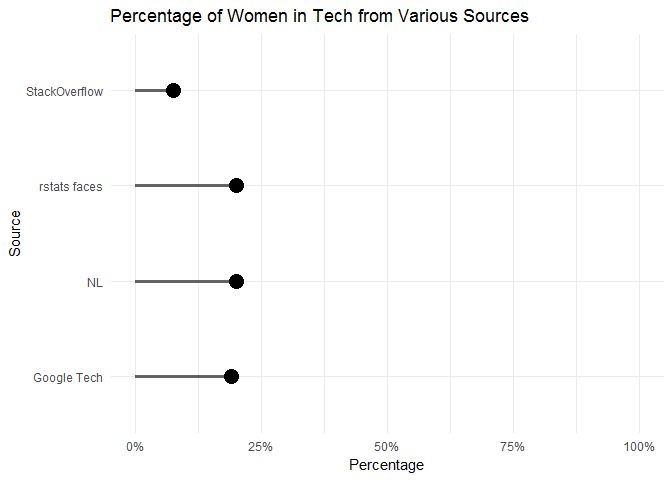
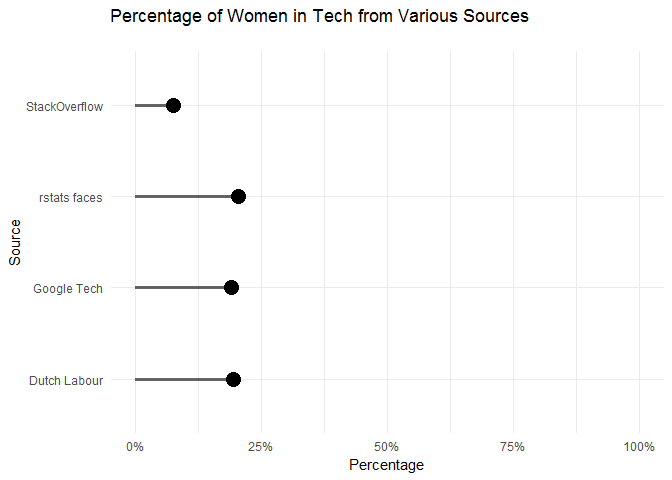
completed blogpost

diff --git a/rstats_faces.html b/rstats_faces.html
@@ -122,8 +122,9 @@ $(document).ready(function () {
 </div>
 
 
-<p>The representation of women in technology is gaining more and more focus. In the R community this has lead to the foundation of R Ladies, the awarding of a grant by the R Foundation to them and the offering of a scholarship by the useR conference (the latter two are also about inclusion of other minorities). This is a good thing but it does make me wonder: how do we measure success? how will we know these actions have lead to a better situation? And by how much?</p>
-<p>This blogpost by Maelle Salmon and this one by Colin Fay inspired me to explore this issue as follows: if we could somehow measure the representation of women currently in our community we can keep track of this. As Mango are organisers of the EARL conference it would also help us assess our own performance.</p>
+<p>The representation of women in technology is gaining more and more attention. In the R community, R-Ladies has grown massively over the past year and been awarded funding by the R-Consortium. The useR! conference has offered diversity scholarships (for underrepesented minorities in general) for the conferences in 2016 and 2017. This is a good thing but it does make me wonder: how do we measure success? how will we know these actions have lead to a better situation? And by how much?</p>
+<p><a href="http://www.masalmon.eu/2017/03/19/facesofr/">This</a> blogpost by Maelle Salmon and <a href="http://colinfay.me/playing-with-rstats-and-microsoft-computer-vision-api/">this</a> one by Colin Fay inspired me to explore this issue as follows: if we could somehow measure the representation of women currently in our community we can keep track of this. As Mango are organisers of the EARL conference it would also help us assess our own performance.</p>
+<p>Before I jump to the code I should mention that this is a simplified approach to the problem. The issue of equal representation is much more complex and the subject of a separate branch of research. This blogpost is an attempt to approach the problem of data collection and measuring progress from a different angle.</p>
 <p>So I set out to measure the proportion of women among the faces of #rstats. I used Colin’s code to first retrieve the profile pictures.</p>
 <pre class="r"><code># Taken from http://colinfay.me/playing-with-rstats-and-microsoft-computer-vision-api/
 library(dplyr)
@@ -160,13 +161,14 @@ getGender &lt;- function(myURLs){
 usersWithGender &lt;- users %&gt;% 
   mutate(gender= getGender(profile_image_url)) %&gt;% 
   select(user_id, gender)</code></pre>
-<p>From Maelle’s great collage we already knew not all profile pictures are of people and the Face API does not return any predictions in these cases. There are also some instances the Face API wrongfully didnt detect a face (not even one of our EARL keynote speaker, sorry Hillary Parker). Altogether the Face API detected 314 faces and the proportion of women among the #rstat faces is 20.4% (click <a href="https://s-media-cache-ak0.pinimg.com/736x/57/6d/fe/576dfe57df89ef97cd31fd7601651bc2.jpg">here</a> for the pie chart). This is only an estimate and it might not even be a very accurate one but we can compare it with other estimates:</p>
[1 lines of base64/hex data omitted]
-<p>Although the percentage of women in technology at Google and in the Netherlands are based on an entirely different populations our estimate is close to these two. It is fair to assume, without any further knowledge, that the percentage of women in the #rstats community will be similar to the percentage of women in the wider tech community. Nevertheless there are other issues with the general estimates. The industry categorisation of the Netherlands means that we’re not capturing all tech jobs (for example, those in finance aren’t included). Also there has been quite the controversy on Google’s gender gap which may mean that estimate is too low as well. And finally in the discussion on the results of the StackOverflow Developer Survey it is stated their estimate is probably too low.</p>
-<p>If we knew about these issues then why did we use them in the first place? Because it’s the best we could find and that may be a problem. Without an accurate measure and without knowing how accurate our own measure is, it is clearly impossible to use it as an KPI <a href="#fn1" class="footnoteRef" id="fnref1"><sup>1</sup></a>. So was this whole exercise just an excuse for us to play with the Microsoft Face API? Perhaps. Have we wasted your time by making you read it? Perhaps not. In the next section we explore a different use for our approach.</p>
+<p>From Maelle’s great collage I already knew not all profile pictures are of people and the Face API does not return any predictions in these cases. There are also some instances the Face API wrongfully didnt detect a face (sorry Hillary Parker). Altogether the Face API detected 314 faces and the proportion of women among the #rstat faces is 20.4%.</p>
+<p>This value is our first estimate and to assess its accuracy I want to compare it with other estimates. I have tried my best to find other sources but that has proven harder than I thought. Below I have plotted my estimate with estimates based on Dutch labour statistics<a href="#fn1" class="footnoteRef" id="fnref1"><sup>1</sup></a>, Google diversity statistics<a href="#fn2" class="footnoteRef" id="fnref2"><sup>2</sup></a> and the StackOverflow Developer Survey<a href="#fn3" class="footnoteRef" id="fnref3"><sup>3</sup></a>.</p>
[1 lines of base64/hex data omitted]
+<p>Although the percentage of women in technology at Google and in the Netherlands are based on an entirely different populations our estimate is close to these two. I have no specific knowledge about the #rstats community that would make it different from the wider tech community so I would expect the estimates to be close to each other. However there are some issues with the general estimates. The industry categorisation of the Netherlands means that we’re not capturing all tech jobs (for example, those in finance aren’t included). Also there has been quite the controversy on Google’s gender gap which may mean that estimate is too low as well. And finally in the discussion on the results of the StackOverflow Developer Survey it is stated their estimate is probably too low.</p>
+<p>If I knew about these issues then why did I use them in the first place? Because it’s the best I could find and that is a problem. Without an accurate measure and without knowing how accurate my own measure is, it is clearly impossible to use it as an KPI <a href="#fn4" class="footnoteRef" id="fnref4"><sup>4</sup></a>. I will come back to this point later on but first I want to show how this methodology to measure the proportion of women can still be useful.</p>
 <div id="lets-go-to-the-conference" class="section level3">
 <h3>Let’s go to the conference!</h3>
-<p>Our approach so far has been to use profile pictures, determine the gender and then calculate the percentage of women. By applying this approach to conferences we can semi-automatically determine the percentage of women for these conferences and then compare them with each other and year over year. The conferences we will be looking at are EARL and useR.</p>
+<p>Our approach so far has been to use profile pictures, estimate the gender and then calculate the percentage of women. By applying this approach to conferences we can semi-automatically estimate the percentage of women for these conferences and then compare them with each other and year over year. The conferences we will be looking at are EARL and useR!.</p>
 <p>First, we have to do some webscraping to retrieve the profile pictures. This is relatively easy with the <strong>rvest</strong> package. Below is the code for EARL London 2016.</p>
 <pre class="r"><code>library(rvest)
 earl2016URL&lt;- &quot;https://earlconf.com/2016/london/speakers&quot;
@@ -189,7 +191,7 @@ earlSF2017Genders &lt;- earlSF2017 %&gt;%
   map(&quot;headshot&quot;) %&gt;% 
   map(~paste0(&quot;https://earlconf.com/img/headshots/sanfrancisco/&quot;, .x)) %&gt;% 
   map_chr(~getGender(.))</code></pre>
-<p>I wasn’t able to find profile pictures of the speakers for useR 2017 but for useR 2016 I was able to use almost the same code as above.</p>
+<p>I wasn’t able to find profile pictures of the speakers for useR! 2017 but for useR! 2016 I was able to use almost the same code as above.</p>
 <pre class="r"><code>user2016URL &lt;- &quot;http://schedule.user2016.org/directory/speakers&quot;
 user2016Genders &lt;- read_html(user2016URL) %&gt;% 
   html_nodes(&quot;img&quot;) %&gt;% 
@@ -197,16 +199,22 @@ user2016Genders &lt;- read_html(user2016URL) %&gt;%
   map(~paste0(&quot;http:&quot;, .x)) %&gt;% 
   map_chr(~getGender(.))</code></pre>
 <p>Finally, armed with the web scraping results we can plot the gender distribution for different conferences.</p>
[1 lines of base64/hex data omitted]
-<p>Compared to 2016 the percentage of women speakers at EARL has gone up. This reflects the effort that has been put in by the EARL team and will hopefully continue to improve in the future. The estimate for useR 2016 is surprisingly close to our estimate for #rstat faces. The organisation for useR 2017 will probably improve on this considering the facilities they’re providing and the location (who doesn’t want to go to Brussels!).</p>
[1 lines of base64/hex data omitted]
+<p>Compared to 2016 the percentage of women speakers at EARL has gone up. This reflects the effort that has been put in by the EARL team and will hopefully continue to improve in the future. The estimate for useR! 2016 is surprisingly close to our estimate for #rstat faces. The organisation for useR! 2017 will probably improve on this considering they’re providing childcare, diversity scholarships and the location (who doesn’t want to go to Brussels!).</p>
 </div>
 <div id="summary" class="section level3">
 <h3>Summary</h3>
+<p>I’m just scraping the surface of gender prediction with this blogpost (see for example the <a href="https://github.com/kalimu/genderizeR">genderizeR</a> package for another approach). Also there are a number of caveats to my analysis that I didn’t cover such as the accuracy of the Face API, the bias in twitter users or the bias in conference attendees. This blogpost wasn’t intended to be at the level of an academic paper but rather a short exploration into a different approach to the problem.</p>
+<p>As such my conclusion is that my method is definitely not complete. Without ground truth values it’s hard to say how accurate my #rstat faces estimate is. The values that I did collect weren’t consistent but that doesn’t mean there aren’t any better statistics out there (if you’re familiar with any please let us know!). Furthermore, as a standalone KPI this estimate won’t suffice but it could be useful in other contexts together with other values. The conference estimates are an example of this.</p>
+<p>There are many more things that I wanted explore but unfortunately there was no time. If you’re interested, the code for this post can be found on <a href="https://github.com/MangoTheCat">GitHub</a> and you can always reach us via <a href="https://twitter.com/MangotheCat%5D">twitter</a>.</p>
 </div>
 <div class="footnotes">
 <hr />
 <ol>
-<li id="fn1"><p>We don’t give up that easily. Another approach to validating our estimate is to count the members of all R-Ladies groups. After correcting for duplicates this might give us a more accurate estimate but it is beyond the scope of this blogpost.<a href="#fnref1">↩</a></p></li>
+<li id="fn1"><p>CBS.nl / Arbeidsvolume naar bedrijfstak en geslacht / 62-63 IT- en informatiedienstverlening<a href="#fnref1">↩</a></p></li>
+<li id="fn2"><p>Google Diversity 2015 (<a href="http://www.google.com/diversity/" class="uri">http://www.google.com/diversity/</a>)<a href="#fnref2">↩</a></p></li>
+<li id="fn3"><p>Developer Survey Results 2017 (<a href="https://insights.stackoverflow.com/survey/2017#demographics" class="uri">https://insights.stackoverflow.com/survey/2017#demographics</a>)<a href="#fnref3">↩</a></p></li>
+<li id="fn4"><p>I don’t give up that easily. Another approach to validating my estimate is to count the members of all R-Ladies groups. After correcting for duplicates this might give me a more accurate estimate but it is beyond the scope of this blogpost.<a href="#fnref4">↩</a></p></li>
 </ol>
 </div>
 

diff --git a/README.md b/README.md
@@ -2,9 +2,11 @@
 Adnan Fiaz  
 
 
-The representation of women in technology is gaining more and more focus. In the R community this has lead to the foundation of R Ladies, the awarding of a grant by the R Foundation to them and the offering of a scholarship by the useR conference (the latter two are also about inclusion of other minorities). This is a good thing but it does make me wonder: how do we measure success? how will we know these actions have lead to a better situation? And by how much?
+The representation of women in technology is gaining more and more attention. In the R community, R-Ladies has grown massively over the past year and been awarded funding by the R-Consortium. The useR! conference has offered diversity scholarships (for underrepesented minorities in general) for the conferences in 2016 and 2017. This is a good thing but it does make me wonder: how do we measure success? how will we know these actions have lead to a better situation? And by how much?
 
-This blogpost by Maelle Salmon and this one by Colin Fay inspired me to explore this issue as follows: if we could somehow measure the representation of women currently in our community we can keep track of this. As Mango are organisers of the EARL conference it would also help us assess our own performance.
+[This](http://www.masalmon.eu/2017/03/19/facesofr/) blogpost by Maelle Salmon and [this](http://colinfay.me/playing-with-rstats-and-microsoft-computer-vision-api/) one by Colin Fay inspired me to explore this issue as follows: if we could somehow measure the representation of women currently in our community we can keep track of this. As Mango are organisers of the EARL conference it would also help us assess our own performance.  
+
+Before I jump to the code I should mention that this is a simplified approach to the problem. The issue of equal representation is much more complex and the subject of a separate branch of research. This blogpost is an attempt to approach the problem of data collection and measuring progress from a different angle. 
 
 So I set out to measure the proportion of women among the faces of #rstats. I used Colin's code to first retrieve the profile pictures. 
 
@@ -53,17 +55,20 @@ usersWithGender <- users %>%
 ```
 
 
-From Maelle's great collage we already knew not all profile pictures are of people and the Face API does not return any predictions in these cases. There are also some instances the Face API wrongfully didnt detect a face (not even one of our EARL keynote speaker, sorry Hillary Parker). Altogether the Face API detected  314 faces and the proportion of women among the #rstat faces is 20.4% (click [here](https://s-media-cache-ak0.pinimg.com/736x/57/6d/fe/576dfe57df89ef97cd31fd7601651bc2.jpg) for the pie chart). This is only an estimate and it might not even be a very accurate one but we can compare it with other estimates:
+From Maelle's great collage I already knew not all profile pictures are of people and the Face API does not return any predictions in these cases. There are also some instances the Face API wrongfully didnt detect a face (sorry Hillary Parker). Altogether the Face API detected  314 faces and the proportion of women among the #rstat faces is 20.4%. 
+
+This value is our first estimate and to assess its accuracy I want to compare it with other estimates. I have tried my best to find other sources but that has proven harder than I thought. Below I have plotted my estimate with estimates based on Dutch labour statistics^[CBS.nl / Arbeidsvolume naar bedrijfstak en geslacht / 62-63 IT- en informatiedienstverlening], Google diversity statistics^[Google Diversity 2015 (http://www.google.com/diversity/)] and the StackOverflow Developer Survey^[Developer Survey Results 2017 (https://insights.stackoverflow.com/survey/2017#demographics)]. 
 
 ![](rstats_faces_files/figure-html/unnamed-chunk-4-1.png)<!-- -->
 
-Although the percentage of women in technology at Google and in the Netherlands are based on an entirely different populations our estimate is close to these two. It is fair to assume, without any further knowledge, that the percentage of women in the #rstats community will be similar to the percentage of women in the wider tech community. Nevertheless there are other issues with the general estimates. The industry categorisation of the Netherlands means that we're not capturing all tech jobs (for example, those in finance aren't included). Also there has been quite the controversy on Google's gender gap which may mean that estimate is too low as well. And finally in the discussion on the results of the StackOverflow Developer Survey it is stated their estimate is probably too low. 
+Although the percentage of women in technology at Google and in the Netherlands are based on an entirely different populations our estimate is close to these two. I have no specific knowledge about the #rstats community that would make it different from the wider tech community so I would expect the estimates to be close to each other. However there are some issues with the general estimates. The industry categorisation of the Netherlands means that we're not capturing all tech jobs (for example, those in finance aren't included). Also there has been quite the controversy on Google's gender gap which may mean that estimate is too low as well. And finally in the discussion on the results of the StackOverflow Developer Survey it is stated their estimate is probably too low. 
 
-If we knew about these issues then why did we use them in the first place? Because it's the best we could find and that may be a problem. Without an accurate measure and without knowing how accurate our own measure is, it is clearly impossible to use it as an KPI ^[We don't give up that easily. Another approach to validating our estimate is to count the members of all R-Ladies groups. After correcting for duplicates this might give us a more accurate estimate but it is beyond the scope of this blogpost.]. So was this whole exercise just an excuse for us to play with the Microsoft Face API? Perhaps. Have we wasted your time by making you read it? Perhaps not. In the next section we explore a different use for our approach.
+If I knew about these issues then why did I use them in the first place? Because it's the best I could find and that is a problem. Without an accurate measure and without knowing how accurate my own measure is, it is clearly impossible to use it as an KPI ^[I don't give up that easily. Another approach to validating my estimate is to count the members of all R-Ladies groups. After correcting for duplicates this might give me
+a more accurate estimate but it is beyond the scope of this blogpost.]. I will come back to this point later on but first I want to show how this methodology to measure the proportion of women can still be useful.
 
 ### Let's go to the conference!
 
-Our approach so far has been to use profile pictures, determine the gender and then calculate the percentage of women. By applying this approach to conferences we can semi-automatically determine the percentage of women for these conferences and then compare them with each other and year over year. The conferences we will be looking at are EARL and useR. 
+Our approach so far has been to use profile pictures, estimate the gender and then calculate the percentage of women. By applying this approach to conferences we can semi-automatically estimate the percentage of women for these conferences and then compare them with each other and year over year. The conferences we will be looking at are EARL and useR!. 
 
 First, we have to do some webscraping to retrieve the profile pictures. This is relatively easy with the **rvest** package. Below is the code for EARL London 2016.
 
@@ -97,7 +102,7 @@ earlSF2017Genders <- earlSF2017 %>%
   map_chr(~getGender(.))
 ```
 
-I wasn't able to find profile pictures of the speakers for useR 2017 but for useR 2016 I was able to use almost the same code as above.  
+I wasn't able to find profile pictures of the speakers for useR! 2017 but for useR! 2016 I was able to use almost the same code as above.  
 
 
 ```r
@@ -113,8 +118,11 @@ Finally, armed with the web scraping results we can plot the gender distribution
 
 ![](rstats_faces_files/figure-html/unnamed-chunk-8-1.png)<!-- -->
 
-Compared to 2016  the percentage of women speakers at EARL has gone up. This reflects the effort that has been put in by the EARL team and will hopefully continue to improve in the future. The estimate for useR 2016 is surprisingly close to our estimate for #rstat faces. The organisation for useR 2017 will probably improve on this considering the facilities they're providing and the location (who doesn't want to go to Brussels!).
+Compared to 2016  the percentage of women speakers at EARL has gone up. This reflects the effort that has been put in by the EARL team and will hopefully continue to improve in the future. The estimate for useR! 2016 is surprisingly close to our estimate for #rstat faces. The organisation for useR! 2017 will probably improve on this considering they're providing childcare, diversity scholarships and the location (who doesn't want to go to Brussels!).
 
 ### Summary
+I'm just scraping the surface of gender prediction with this blogpost (see for example the [genderizeR](https://github.com/kalimu/genderizeR) package for another approach). Also there are a number of caveats to my analysis that I didn't cover such as the accuracy of the Face API, the bias in twitter users or the bias in conference attendees. This blogpost wasn't intended to be at the level of an academic paper but rather a short exploration into a different approach to the problem.
 
+As such my conclusion is that my method is definitely not complete. Without ground truth values it's hard to say how accurate my #rstat faces estimate is. The values that I did collect weren't consistent but that doesn't mean there aren't any better statistics out there (if you're familiar with any please let us know!). Furthermore, as a standalone KPI this estimate won't suffice but it could be useful in other contexts together with other values. The conference estimates are an example of this.
 
+There are many more things that I wanted explore but unfortunately there was no time. If you're interested, the code for this post can be found on [GitHub](https://github.com/MangoTheCat) and you can always reach us via [twitter](https://twitter.com/MangotheCat]).  
